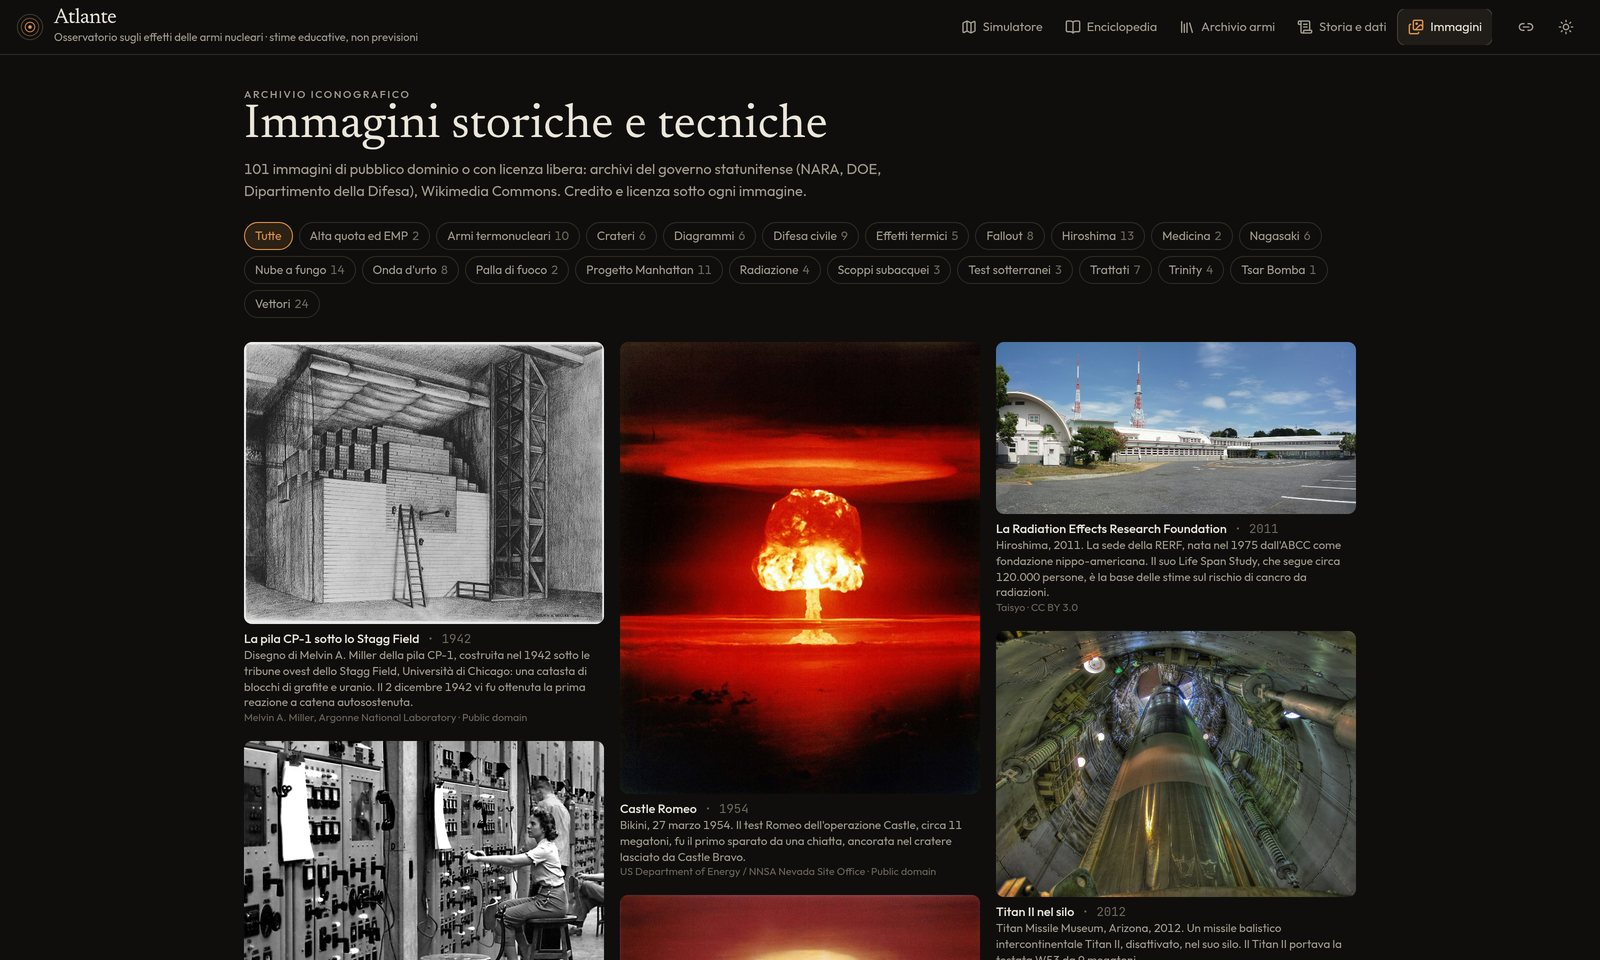
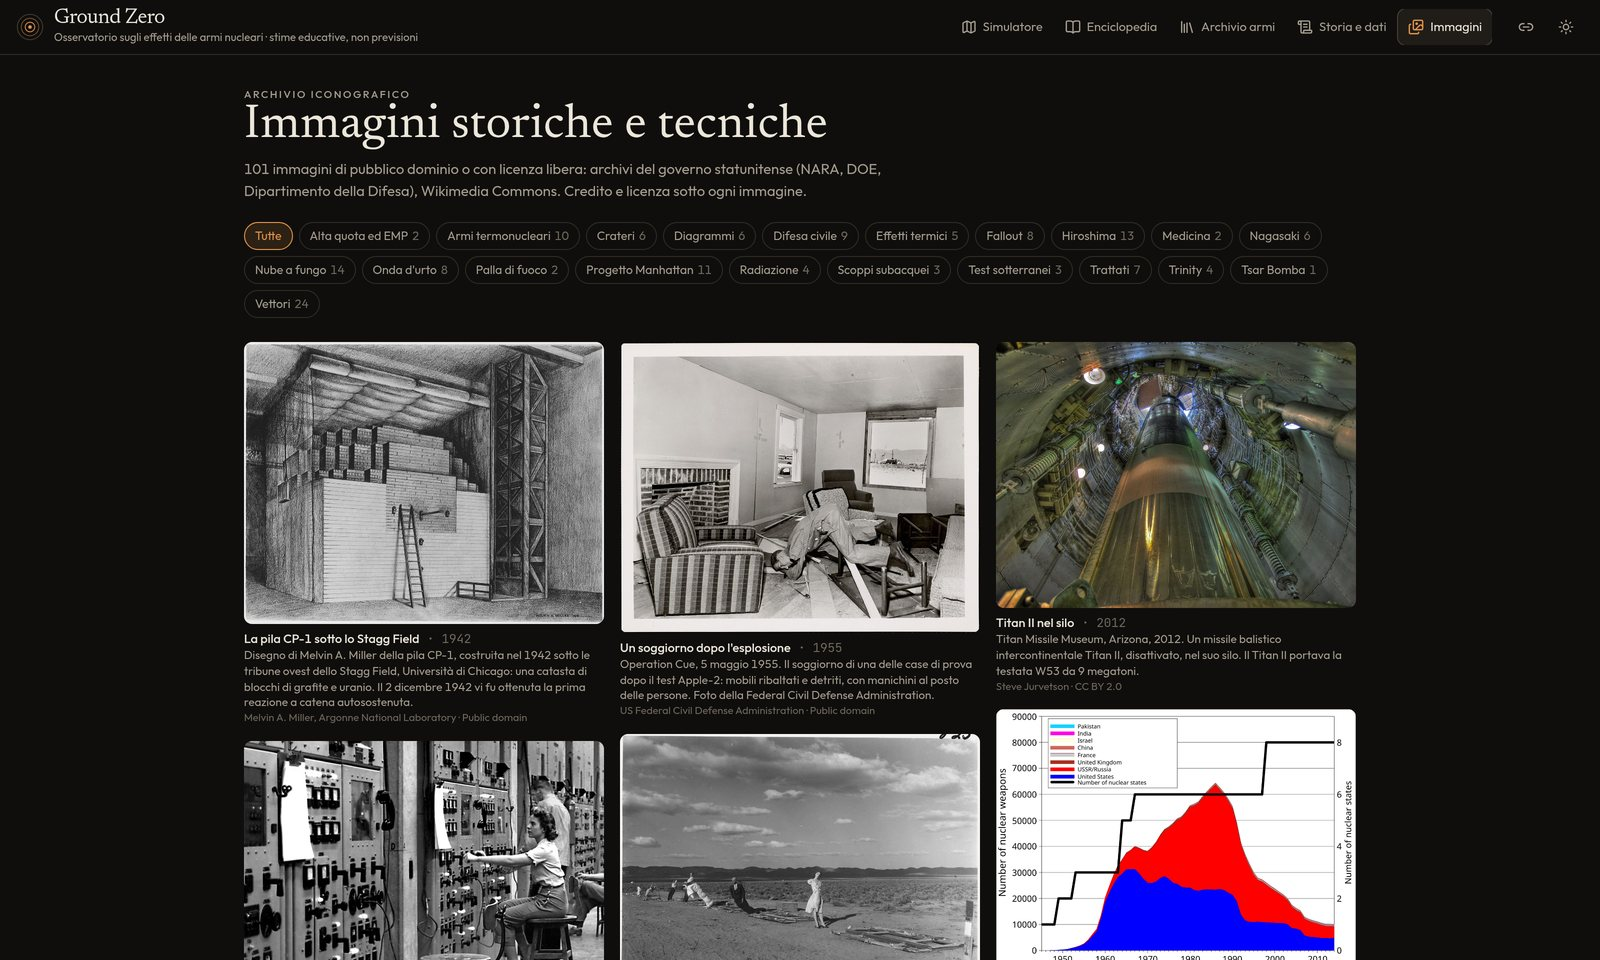
Rinomina il progetto da Atlante a Ground Zero
Nome aggiornato in app, titolo della pagina, icona, README,
enciclopedia, dossier e package. Le preferenze e gli scenari salvati
con le vecchie chiavi del browser vengono ancora letti. Schermate del
README rigenerate. Lo studio Grok originale in pre_asssets/ resta
invariato.

Changed region(s): [[0.375, 0.3438, 0.875, 1.0], [0.0312, 0.0, 0.0938, 0.0312]]

diff --git a/src/data/encyclopedia.ts b/src/data/encyclopedia.ts
@@ -1,4 +1,4 @@
-// Enciclopedia di Atlante.
+// Enciclopedia di Ground Zero.
 // Contenuto educativo in italiano: effetti, fisica degli effetti, storia, politica e medicina.
 // Nessun dettaglio di progetto, materiali o assemblaggio di armi.
 // I numeri sono valori pubblici consolidati; dove le fonti divergono il testo dà una forbice.
@@ -301,7 +301,7 @@ export const CHAPTERS: Chapter[] = [
       },
       {
         t: "p",
-        text: "Per ogni livello di sovrapressione esiste una quota di scoppio che lo porta più lontano. Per i 5 psi, nel fit di Brode usato da Atlante, è circa 276 m × Y^(1/3) (Y in kt): circa 680 m per 15 kt, 2,8 km per 1 Mt. Livelli più alti richiedono quote più basse. Hiroshima esplose a circa 580–600 m, Nagasaki a circa 500 m: quote vicine all'ottimo per i danni urbani.",
+        text: "Per ogni livello di sovrapressione esiste una quota di scoppio che lo porta più lontano. Per i 5 psi, nel fit di Brode usato da Ground Zero, è circa 276 m × Y^(1/3) (Y in kt): circa 680 m per 15 kt, 2,8 km per 1 Mt. Livelli più alti richiedono quote più basse. Hiroshima esplose a circa 580–600 m, Nagasaki a circa 500 m: quote vicine all'ottimo per i danni urbani.",
       },
       { t: "h", text: "Danni agli edifici" },
       {
@@ -979,7 +979,7 @@ export const CHAPTERS: Chapter[] = [
       },
       {
         t: "p",
-        text: "Atlante non calcola il clima. Scala la fuliggine, con un fattore largo, sull'area urbana che può bruciare, e sotto qualche centesimo di teragrammo dice semplicemente che un inverno nucleare non nasce da un singolo scoppio.",
+        text: "Ground Zero non calcola il clima. Scala la fuliggine, con un fattore largo, sull'area urbana che può bruciare, e sotto qualche centesimo di teragrammo dice semplicemente che un inverno nucleare non nasce da un singolo scoppio.",
       },
       { t: "figures", topic: "diagrammi" },
     ],
@@ -1157,7 +1157,7 @@ export const CHAPTERS: Chapter[] = [
       { t: "h", text: "Il dibattito" },
       {
         t: "p",
-        text: "Se i bombardamenti siano stati necessari per la resa del Giappone, annunciata il 15 agosto, è una delle questioni più discusse della storiografia del Novecento. Pesarono anche la dichiarazione di guerra sovietica dell'8 agosto e l'invasione della Manciuria. Atlante non prende posizione: mostra che cosa fecero e che cosa farebbero oggi armi simili su una mappa contemporanea.",
+        text: "Se i bombardamenti siano stati necessari per la resa del Giappone, annunciata il 15 agosto, è una delle questioni più discusse della storiografia del Novecento. Pesarono anche la dichiarazione di guerra sovietica dell'8 agosto e l'invasione della Manciuria. Ground Zero non prende posizione: mostra che cosa fecero e che cosa farebbero oggi armi simili su una mappa contemporanea.",
       },
       { t: "figures", topic: "hiroshima" },
       { t: "figures", topic: "nagasaki" },
@@ -1427,7 +1427,7 @@ export const CHAPTERS: Chapter[] = [
   {
     id: "modello",
     part: "Il modello",
-    title: "Come leggere Atlante",
+    title: "Come leggere Ground Zero",
     kicker: "Che cosa calcola la mappa, e con quali approssimazioni",
     summary:
       "I modelli dietro i cerchi: Brode per l'onda d'urto, Glasstone per il calore, la dose pronta, il pennacchio di fallout, le curve di mortalità, la nube, l'orizzonte dell'EMP e la fascia di incertezza.",
@@ -1435,7 +1435,7 @@ export const CHAPTERS: Chapter[] = [
     blocks: [
       {
         t: "p",
-        text: "Atlante mette su una mappa gli ordini di grandezza dei manuali pubblici. Non è una previsione e non è un piano: è un modo per vedere, su luoghi familiari, la scala di fenomeni che altrimenti restano numeri astratti. Questo capitolo elenca i modelli e i loro limiti.",
+        text: "Ground Zero mette su una mappa gli ordini di grandezza dei manuali pubblici. Non è una previsione e non è un piano: è un modo per vedere, su luoghi familiari, la scala di fenomeni che altrimenti restano numeri astratti. Questo capitolo elenca i modelli e i loro limiti.",
       },
       { t: "h", text: "Onda d'urto" },
       {

diff --git a/src/state/store.ts b/src/state/store.ts
@@ -126,7 +126,7 @@ function presetScenario(id: string, base?: Scenario): Scenario {
 
 function loadSaved(): SavedScenario[] {
   try {
-    const raw = localStorage.getItem("atlante:saved");
+    const raw = (localStorage.getItem("groundzero:saved") ?? localStorage.getItem("atlante:saved"));
     return raw ? (JSON.parse(raw) as SavedScenario[]) : [];
   } catch {
     return [];
@@ -135,7 +135,7 @@ function loadSaved(): SavedScenario[] {
 
 function persistSaved(list: SavedScenario[]) {
   try {
-    localStorage.setItem("atlante:saved", JSON.stringify(list));
+    localStorage.setItem("groundzero:saved", JSON.stringify(list));
   } catch {
     /* storage unavailable */
   }
@@ -143,7 +143,7 @@ function persistSaved(list: SavedScenario[]) {
 
 function loadPrefs(): Partial<State> {
   try {
-    const raw = localStorage.getItem("atlante:prefs");
+    const raw = (localStorage.getItem("groundzero:prefs") ?? localStorage.getItem("atlante:prefs"));
     return raw ? (JSON.parse(raw) as Partial<State>) : {};
   } catch {
     return {};
@@ -268,7 +268,7 @@ export const useStore = create<State>((set, get) => ({
 useStore.subscribe((s, prev) => {
   if (s.layers !== prev.layers || s.styleId !== prev.styleId || s.units !== prev.units || s.theme !== prev.theme) {
     try {
-      localStorage.setItem("atlante:prefs", JSON.stringify({ layers: s.layers, styleId: s.styleId, units: s.units, theme: s.theme }));
+      localStorage.setItem("groundzero:prefs", JSON.stringify({ layers: s.layers, styleId: s.styleId, units: s.units, theme: s.theme }));
     } catch {
       /* ignore */
     }

diff --git a/src/components/sim/MapView.tsx b/src/components/sim/MapView.tsx
@@ -45,7 +45,7 @@ export const MAP_STYLES: { id: MapStyleId; label: string; url: string; labels?: 
     maxNative: 13,
   },
   { id: "rilievo", label: "Topografica", url: "https://server.arcgisonline.com/ArcGIS/rest/services/World_Topo_Map/MapServer/tile/{z}/{y}/{x}", attr: "© Esri, HERE, Garmin, FAO, NOAA, USGS", maxNative: 19 },
-  { id: "atlas", label: "Atlante", url: "https://server.arcgisonline.com/ArcGIS/rest/services/NatGeo_World_Map/MapServer/tile/{z}/{y}/{x}", attr: "© Esri, National Geographic", maxNative: 16 },
+  { id: "atlas", label: "National Geographic", url: "https://server.arcgisonline.com/ArcGIS/rest/services/NatGeo_World_Map/MapServer/tile/{z}/{y}/{x}", attr: "© Esri, National Geographic", maxNative: 16 },
 ];
 
 export const FALLOUT_COLORS = ["#4b5d1f", "#6f8424", "#98a83a", "#c3c865", "#e3df9c", "#f1efcc", "#f7f6e6"];

diff --git a/src/data/dossiers.ts b/src/data/dossiers.ts
@@ -33,7 +33,7 @@ const D: Record<string, Dossier> = {
       ["Morti storiche", "Nell'ordine di 70–140 mila entro la fine del 1945"],
     ],
     more: [
-      "La mappa di Atlante usa la popolazione di Hiroshima oggi, non quella del 1945. Il numero di morti della scheda storica e quello calcolato sulla città attuale non vanno letti come la stessa cosa.",
+      "La mappa di Ground Zero usa la popolazione di Hiroshima oggi, non quella del 1945. Il numero di morti della scheda storica e quello calcolato sulla città attuale non vanno letti come la stessa cosa.",
       "Non ne fu costruita una serie. Dopo la guerra il tipo cannone fu giudicato ingombrante e poco sicuro da tenere armato, e l'arsenale americano prese un'altra strada.",
     ],
   },

diff --git a/src/App.tsx b/src/App.tsx
@@ -34,7 +34,7 @@ export function App() {
           <div className="flex min-w-0 items-center gap-2.5">
             <Logo />
             <div className="min-w-0 max-sm:hidden">
-              <p className="font-serif text-[21px] leading-none tracking-tight">Atlante</p>
+              <p className="font-serif text-[21px] leading-none tracking-tight">Ground Zero</p>
               <p className="hidden truncate text-[11px] text-muted md:block">Osservatorio sugli effetti delle armi nucleari · stime educative, non previsioni</p>
             </div>
           </div>

diff --git a/index.html b/index.html
@@ -6,7 +6,7 @@
     <meta name="theme-color" content="#100f0d" />
     <meta name="description" content="Osservatorio educativo sugli effetti di una detonazione nucleare: simulazione, archivio storico, enciclopedia." />
     <link rel="icon" type="image/svg+xml" href="/favicon.svg" />
-    <title>Atlante</title>
+    <title>Ground Zero</title>
   </head>
   <body>
     <div id="root"></div>

diff --git a/src/lib/physics/core.ts b/src/lib/physics/core.ts
@@ -1,5 +1,5 @@
 /**
- * Atlante — core effects physics.
+ * Ground Zero — core effects physics.
  *
  * Every function here is an educational approximation of curves published in the
  * open literature. Units: metres, seconds, kilotons (kt), psi for overpressure,

diff --git a/README.md b/README.md
@@ -1,6 +1,6 @@
 <div align="center">
 
-# Atlante
+# Ground Zero
 
 **Osservatorio educativo sugli effetti delle armi nucleari**
 
@@ -36,13 +36,13 @@ Simulatore su mappa · Enciclopedia · Archivio storico · Dati
 
 ## Che cos'è
 
-Atlante mette su una mappa gli ordini di grandezza pubblicati in mezzo secolo di letteratura aperta sugli effetti delle armi nucleari: il manuale di Glasstone e Dolan, le approssimazioni di Brode, il rapporto dell'Office of Technology Assessment del 1979, la dosimetria di Hiroshima e Nagasaki, gli studi climatici di Robock, Toon e Xia.
+Ground Zero mette su una mappa gli ordini di grandezza pubblicati in mezzo secolo di letteratura aperta sugli effetti delle armi nucleari: il manuale di Glasstone e Dolan, le approssimazioni di Brode, il rapporto dell'Office of Technology Assessment del 1979, la dosimetria di Hiroshima e Nagasaki, gli studi climatici di Robock, Toon e Xia.
 
 È pensato per lo studio: capire **perché** uno scoppio in aria e uno al suolo producono conseguenze così diverse, perché il raggio cresce solo con la radice cubica della potenza, perché il fallout dipende dal vento più che dalla bomba, perché un rifugio cambia la sopravvivenza di ordini di grandezza. Ogni pannello del simulatore rimanda al capitolo dell'enciclopedia che spiega la fisica che c'è dietro.
 
 L'applicazione gira interamente nel browser. Le uniche chiamate in rete sono le tessere della mappa (Esri) e il meteo del punto (Open-Meteo); catalogo delle città, ordigni, testi e immagini viaggiano con la pagina.
 
-Il progetto nasce come evoluzione di uno studio precedente realizzato con Grok, conservato intatto in [`pre_asssets/grok-workspace/`](pre_asssets/grok-workspace/).
+Il progetto nasce come evoluzione di uno studio precedente realizzato con Grok, allora chiamato «Atlante», conservato intatto in [`pre_asssets/grok-workspace/`](pre_asssets/grok-workspace/).
 
 ## Il simulatore
 
@@ -78,7 +78,7 @@ Il progetto nasce come evoluzione di uno studio precedente realizzato con Grok, 
 - Sette basi cartografiche, anelli etichettati, curve di fallout (rateo a H+1 o dose accumulata), orizzonte EMP, mappa di calore delle vittime, cronologia animata del fronte d'urto e della ricaduta.
 - Unità metriche o anglosassoni, psi o kPa, Gy o rad; tema scuro e chiaro; interfaccia utilizzabile da telefono.
 
-<p align="center"><img src="docs/screenshots/10-mobile.jpg" alt="Atlante su telefono" width="300"></p>
+<p align="center"><img src="docs/screenshots/10-mobile.jpg" alt="Ground Zero su telefono" width="300"></p>
 
 ## Enciclopedia, storia, archivio
 
@@ -123,7 +123,7 @@ Tutte le formule sono approssimazioni di curve pubblicate. Unità: metri, second
 
 ## Verifiche sui casi storici
 
-| Caso | Atlante | Riferimento |
+| Caso | Ground Zero | Riferimento |
 |---|---|---|
 | 15 kt a 580 m, raggio dei 5 psi | 1,61 km | ≈ 1,6 km (Hiroshima) |
 | 1 Mt a quota ottimale, raggio dei 5 psi | 6,7 km | ≈ 7 km (Glasstone) |
@@ -152,8 +152,8 @@ npm run check:physics   # ricalcola i raggi e le vittime dei casi di riferimento
 Richiede Node.js 20 o successivo.
 
 ```bash
-git clone https://github.com/Indr1d-C0ld/atlante.git
-cd atlante
+git clone https://github.com/Indr1d-C0ld/ground-zero.git
+cd ground-zero
 npm install
 npm run dev        # http://127.0.0.1:5187
 ```
@@ -199,7 +199,7 @@ L'elenco completo, capitolo per capitolo, è nell'enciclopedia dell'applicazione
 
 ## Licenze e crediti
 
-- **Codice e testi**: © gli autori di Atlante, rilasciati sotto [GNU General Public License v3.0 o successiva](LICENSE).
+- **Codice e testi**: © gli autori di Ground Zero, rilasciati sotto [GNU General Public License v3.0 o successiva](LICENSE).
 - **Immagini** (`public/media/`): non coperte dalla GPL. Ognuna conserva la propria licenza, in gran parte pubblico dominio (opere del governo statunitense: NARA, DOE/NNSA, Dipartimento della Difesa), più alcune CC0, CC BY e CC BY-SA. Autore, licenza e fonte sono indicati in [`src/data/gallery.json`](src/data/gallery.json), [`src/data/photos.ts`](src/data/photos.ts) e sotto ogni immagine nell'applicazione.
 - **Città**: [GeoNames](https://www.geonames.org/) cities15000, CC BY 4.0.
 - **Meteo e quota**: [Open-Meteo](https://open-meteo.com/), CC BY 4.0.
